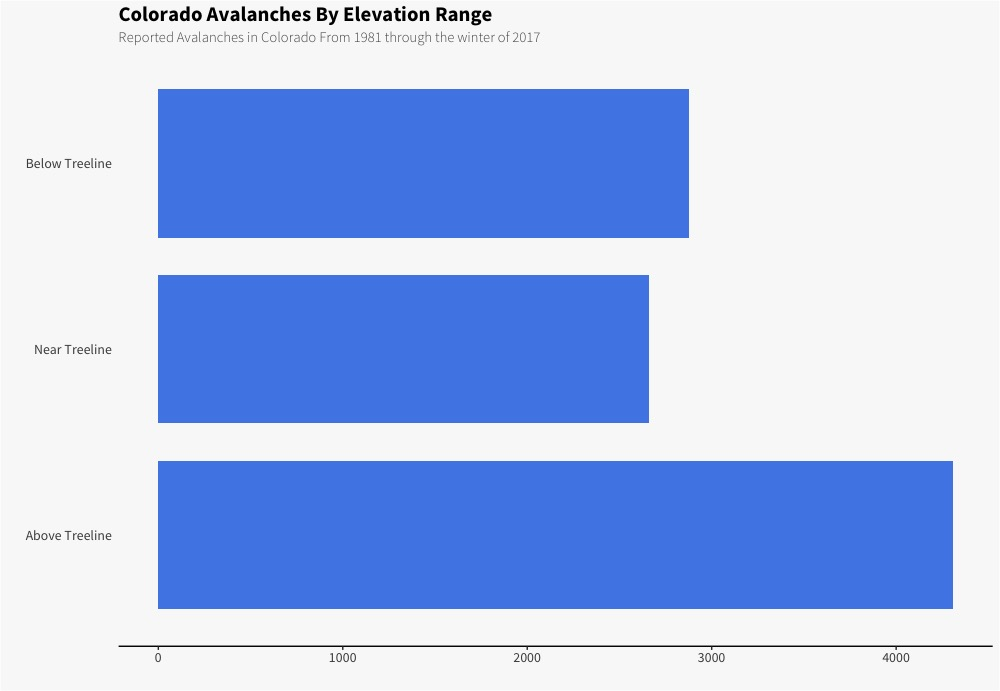
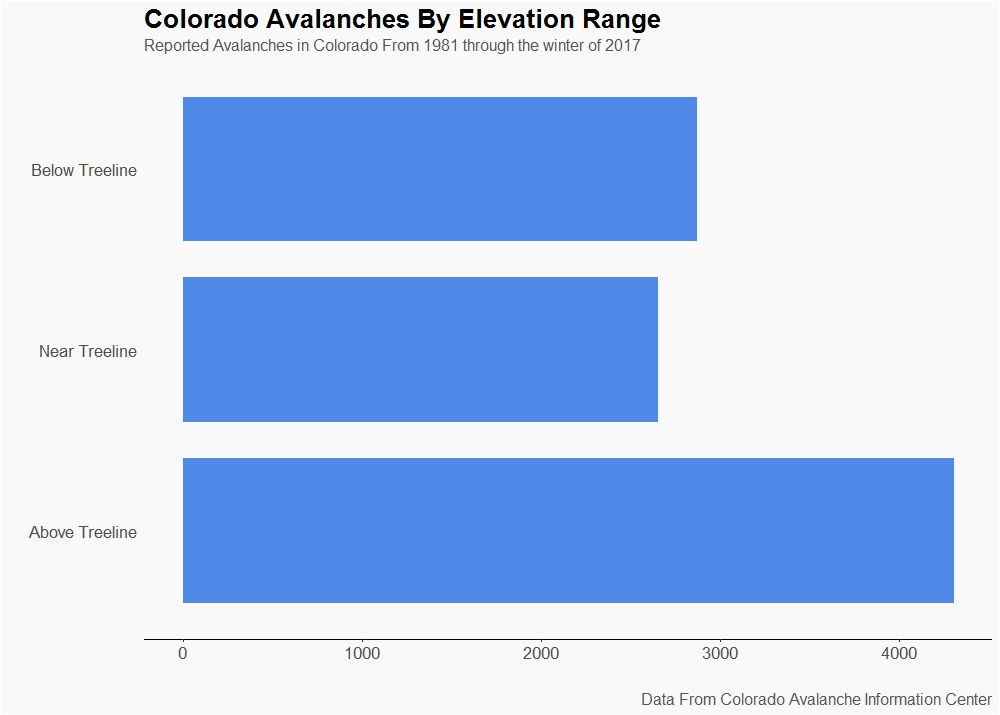
avalanches post

Changed region(s): [[0.031, 0.1216, 0.992, 1.0], [0.124, 0.0, 0.651, 0.0912], [0.031, 0.2127, 0.124, 0.2431]]

diff --git a/r/_posts/2018-12-04-colorado_avalanches_by_the_numbers.md b/r/_posts/2018-12-04-colorado_avalanches_by_the_numbers.md
@@ -1,0 +1,28 @@
+---
+layout: post
+title:  "Colorado Avalanches By The Numbers in R"
+date:   2018-11-20 10:07:03 -0600
+categories: R
+---
+
+A few plots I made looking at avalanches in Colorado.  Please not I'm not an avalanche expert, so please take these interpretations with skepticism.
+
+### Avalanche Observations by Aspect
+![Observed Avalanches by Aspect]({{"/r\assets\avalanches\colorado_avalanches_by_aspect_2.jpeg" | relative_url }})
+
+North to southeast facing slopes appear to be the most dangerous aspects.  This confirms what we know:  snow layers that are not exposed to the sun tend to develop persistent week layers.  However it is important to note that every aspect is susceptible to slide.
+
+### Avalanche Observations by Elevation
+![Observed Avalanches by Elevation]({{"/r\assets\avalanches\colorado_avalanches_by_elevation.jpeg" | relative_url }})
+
+The vast majority of avalanches occur above tree line.  Elevations at or below tree line have a similar number of avalanches. Avalanches happen at all elevations.  It would be interesting to know if there were better bins for elevations.  I wonder if areas well below tree line have fewer avalanches?
+
+### Avalanche Observations by Mountain Range
+![Observed Avalanches by Mountain Range]({{"/r\assets\avalanches\colorado_avalanches_by_range_2.jpeg" | relative_url }})
+
+The Northern San Juan are twice as dangerous as any other mountain range in Colorado.  It would be better if we could look at this in context of area.  The North San Juan is also probably the biggest range as Colorado Avalanche Information Center describes it.  The Front Range and Vial and Summit County also experience many Avalanches. The Front Range is similar in size to the North San Juan so you could infer that the San Northern Juans are more susceptible to avalanches than the Front Range.  Vail and Summit county, on the other hand, is less than half the size of Northern San Juan.  You could infer that Vail may be as susceptible to avalanches as the Northern San Juan.  And all of this info should probably be ignored because of reporting bias in the sample.  Far more people live in the Vail and Summit County areas than there live in the Northern San Juans. Also, area visibility could be a factor we cannot control for.  So don't read too much into this analysis.
+
+### The Takeaway
+Avalanches can occur in all mountain ranges in Colorado, on all aspects, at all elevations.  
+
+Be safe out there.
